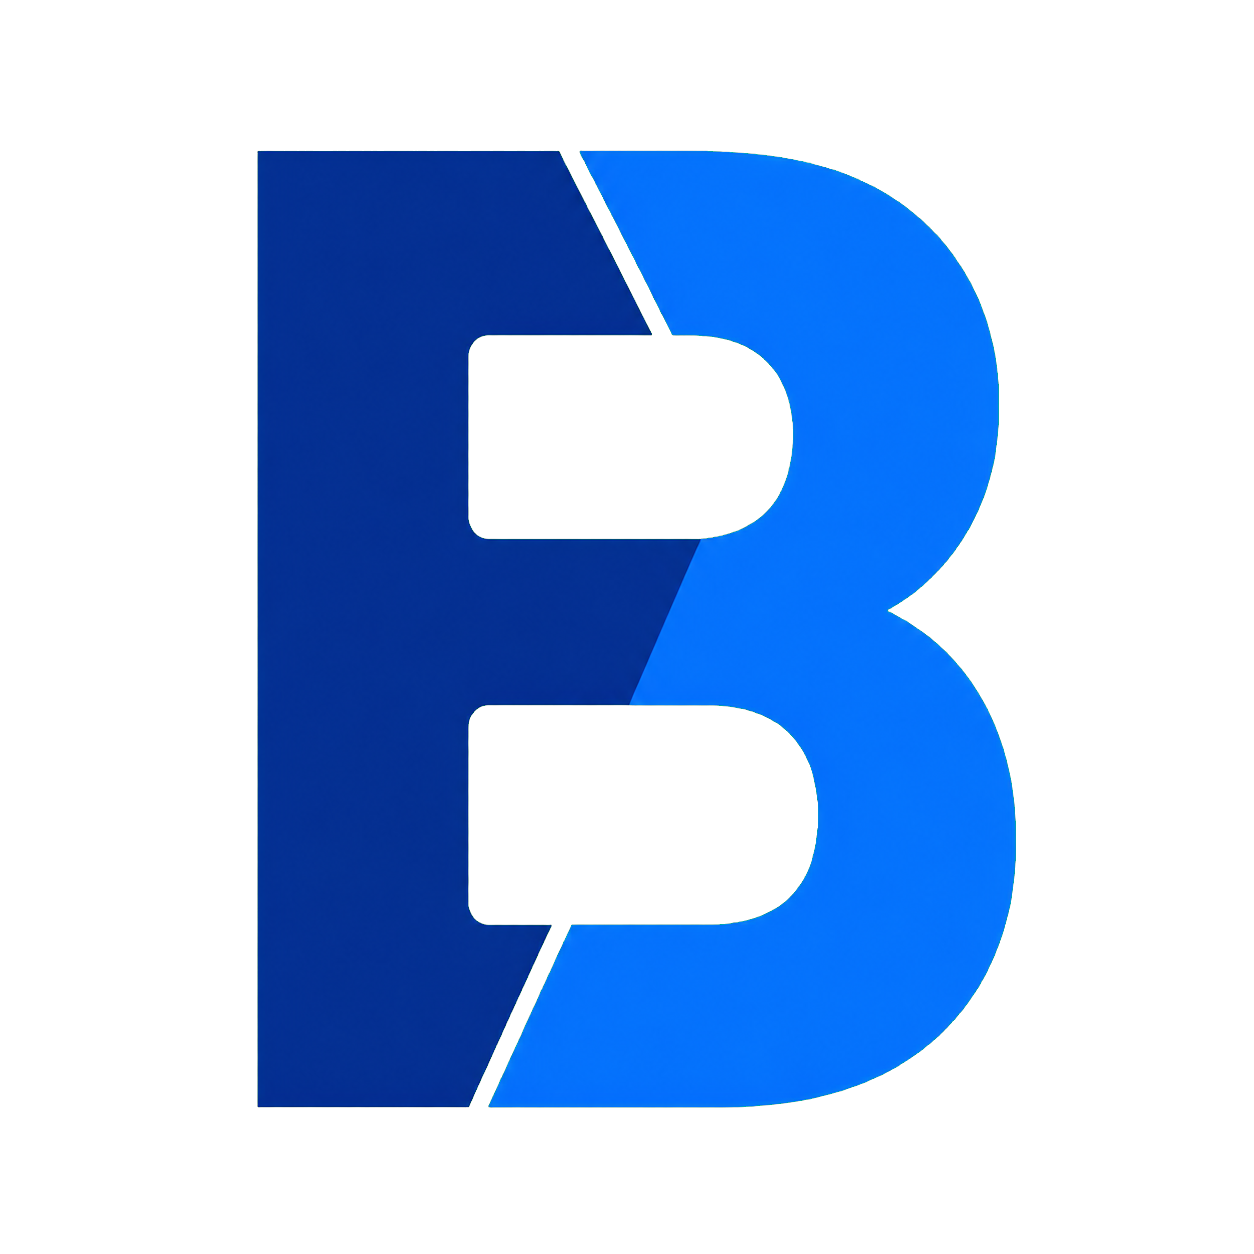
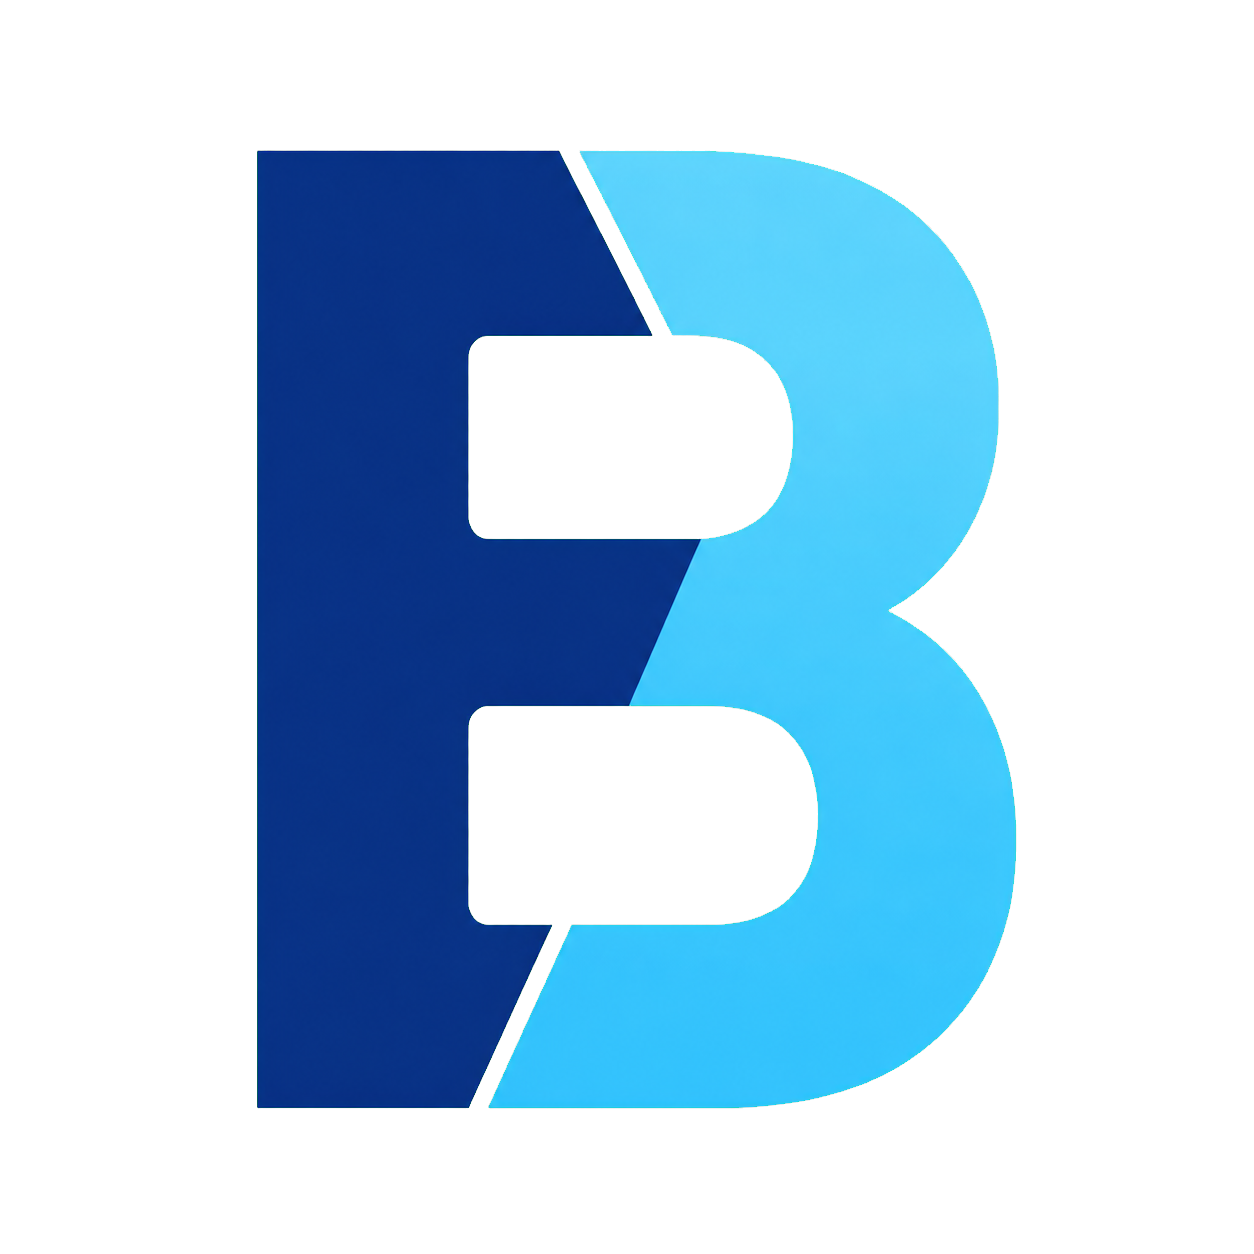
로그 및 색상 수정

Changed region(s): [[0.3732, 0.0933, 0.8086, 0.9019]]

diff --git a/frontend/app/globals.css b/frontend/app/globals.css
@@ -13,7 +13,7 @@
   /* Core palette */
   --ink:          #171717;
   --ink-soft:     #3f3f46;
-  --navy:         #315fc5;
+  --navy:         #4779dc;
   --navy-mid:     #244aa1;
   --navy-light:   #5f82cf;
   --mint:         #16825d;
@@ -92,7 +92,7 @@ a { color: inherit; text-decoration: none; }
   --dim:          #737373;
   --accent:       #5f8ff7;
   --accent-light: #7da5ff;
-  --accent-deep:  #315fc5;
+  --accent-deep:  #4779dc;
   --accent-glow:  rgba(95, 143, 247, 0.18);
   --green:        #34b27b;
   --green-soft:   rgba(52, 178, 123, 0.13);
@@ -130,10 +130,10 @@ a { color: inherit; text-decoration: none; }
   --text-soft:    #3f3f46;
   --muted:        #6b6b6b;
   --dim:          #a3a3a3;
-  --accent:       #315fc5;
-  --accent-light: #315fc5;
+  --accent:       #4779dc;
+  --accent-light: #4779dc;
   --accent-deep:  #244aa1;
-  --accent-glow:  rgba(49, 95, 197, 0.12);
+  --accent-glow:  rgba(71, 121, 220, 0.12);
   --green:        #16825d;
   --green-soft:   #eaf7f1;
   --red:          #c94a4a;
@@ -146,7 +146,7 @@ a { color: inherit; text-decoration: none; }
   --shadow-panel: 0 20px 60px rgba(0, 0, 0, 0.12);
 
   background:
-    radial-gradient(ellipse at 85% 0%, rgba(49, 95, 197, 0.035) 0%, transparent 45%),
+    radial-gradient(ellipse at 85% 0%, rgba(71, 121, 220, 0.035) 0%, transparent 45%),
     radial-gradient(ellipse at 15% 100%, rgba(0, 0, 0, 0.015) 0%, transparent 40%),
     var(--bg);
 }
@@ -176,7 +176,7 @@ a { color: inherit; text-decoration: none; }
   color: var(--text);
   display: flex;
   font-family: "Avenir Next", "Pretendard Variable", "SUIT Variable", "Apple SD Gothic Neo", "Noto Sans KR", -apple-system, sans-serif;
-  gap: 11px;
+  gap: 7px;
 }
 
 .app-shell .logo-symbol {
@@ -191,15 +191,15 @@ a { color: inherit; text-decoration: none; }
 
 .app-shell .logo-symbol img {
   display: block;
-  height: 34px;
+  height: 38px;
   object-fit: contain;
-  transform: translateY(1px);
+  transform: translate(4px, -2px);
   transition: transform 0.2s ease;
-  width: 34px;
+  width: 38px;
 }
 
 .app-shell .logo:hover .logo-symbol img {
-  transform: translateY(0) scale(1.025);
+  transform: translate(4px, -2px) scale(1.025);
 }
 
 .app-shell .logo-copy {
